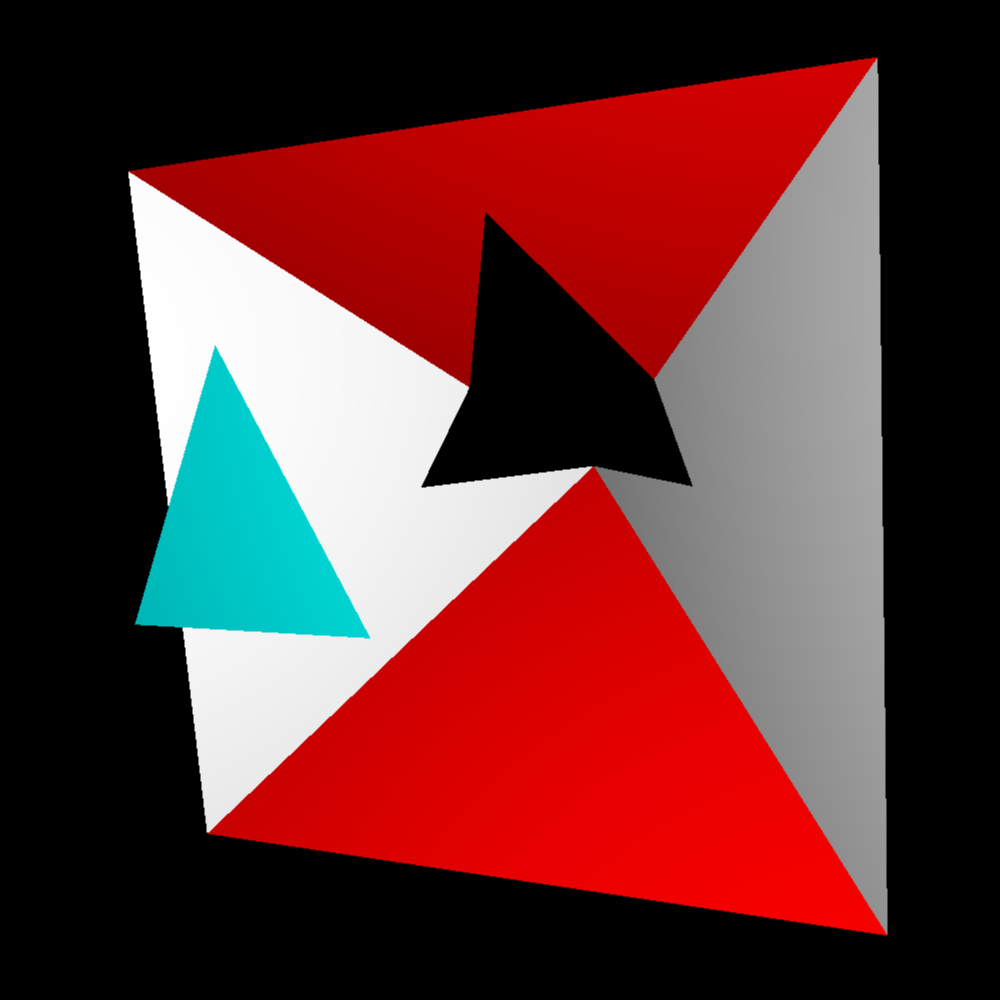
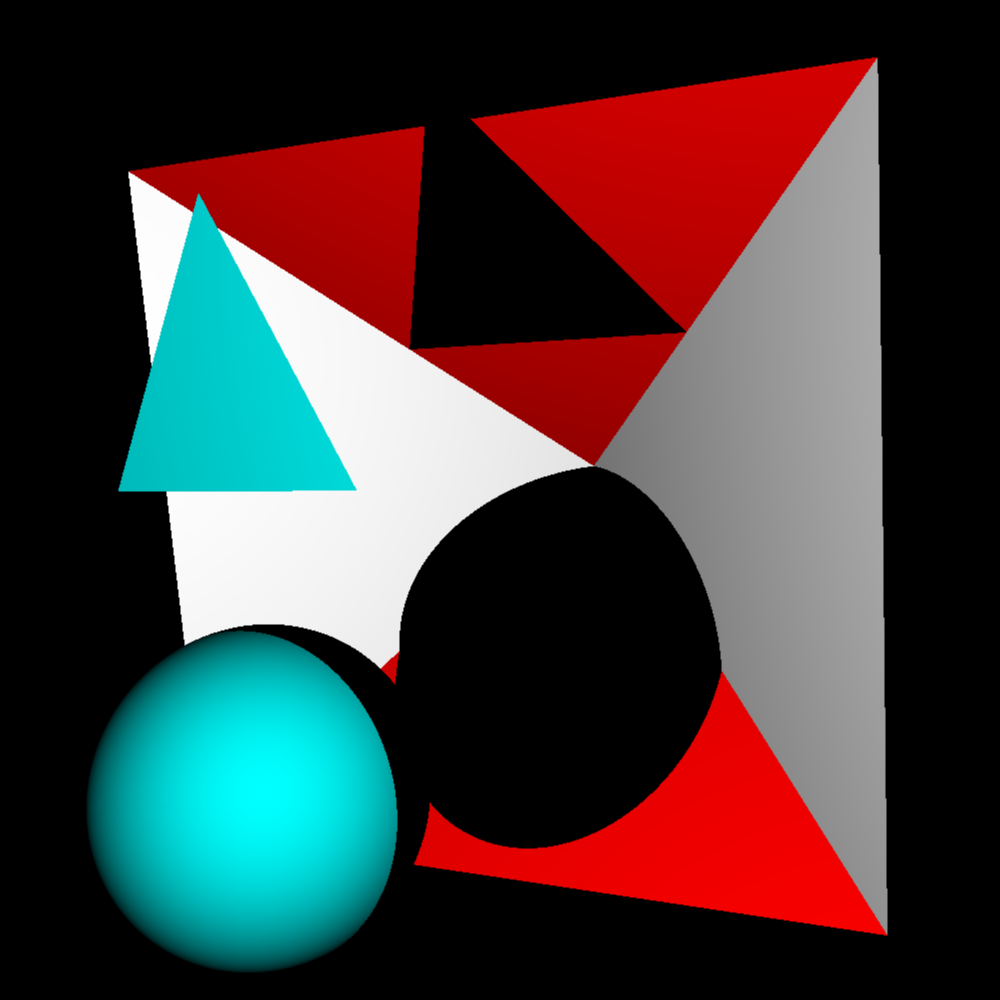
Actually fixed backface culling
Backfaces still cast shadows --- try not to expose backfaces

Changed region(s): [[0.062, 0.124, 0.744, 0.992]]

diff --git a/src/tracer/Raytracer.java b/src/tracer/Raytracer.java
@@ -148,18 +148,18 @@ public class Raytracer {
 		if(!AA) {
 
 			Ray R = cameraCast(x,ytransform,0d,0d);
-			C = getColor(getIntersect(R));		
+			C = getColor(getIntersect(R,true));		
 
 		} else {
 
 			Ray R0 = cameraCast(x,ytransform,0.5d,0.5d);
-			Color C0 = getColor(getIntersect(R0));
+			Color C0 = getColor(getIntersect(R0,true));
 			Ray R1 = cameraCast(x,ytransform,0.5d,-0.5d);
-			Color C1 = getColor(getIntersect(R1));	
+			Color C1 = getColor(getIntersect(R1,true));	
 			Ray R2 = cameraCast(x,ytransform,-0.5d,0.5d);
-			Color C2 = getColor(getIntersect(R2));	
+			Color C2 = getColor(getIntersect(R2,true));	
 			Ray R3 = cameraCast(x,ytransform,-0.5d,-0.50d);
-			Color C3 = getColor(getIntersect(R3));
+			Color C3 = getColor(getIntersect(R3,true));
 
 			C = PatchiColor.average(C0,C1,C2,C3);
 
@@ -169,13 +169,13 @@ public class Raytracer {
 
 	}
 
-	private Intersect getIntersect(Ray R) {
+	private Intersect getIntersect(Ray R, boolean cullBackface) {
 
 		Intersect V = null;
 
 		for(Shape S : shapes) {
 
-			Intersect n = S.intersect(R);
+			Intersect n = S.intersect(R, cullBackface);
 
 			if(n != null) {
 				if(V != null) {
@@ -194,19 +194,19 @@ public class Raytracer {
 
 	}
 
-	private Intersect getIntersect(Ray R, double cull) {
+	private Intersect getIntersect(Ray R, double maxDistance, boolean cullBackface) {
 
-		Intersect I = getIntersect(R);
+		Intersect I = getIntersect(R, cullBackface);
 		if(I == null) return null;
 		double t = I.getT();
-		if(t*t > cull) return null;
+		if(t*t > maxDistance) return null;
 		return I;
 
 	}
 
 	private Color getColor(Intersect I) {
 
-		if(I == null || I.getBackface()) return Color.BLACK;
+		if(I == null) return Color.BLACK;
 		
 		Color C = I.getShape().getColor();
 
@@ -216,7 +216,7 @@ public class Raytracer {
 			Vector lightDir = L.getDirection(shadowCorrection);
 
 			Ray R = new Ray(shadowCorrection, lightDir);
-			Intersect J = getIntersect(R, L.getDistanceSquare(I.getCoords()));
+			Intersect J = getIntersect(R, L.getDistanceSquare(I.getCoords()), false);
 
 			if(J != null) C = Color.BLACK;
 

diff --git a/src/tracer/shapes/Tri.java b/src/tracer/shapes/Tri.java
@@ -31,17 +31,15 @@ public class Tri extends Shape {
 	}
 	
 	@Override
-	public Intersect intersect(Ray R) {
+	public Intersect intersect(Ray R, boolean cullBackface) {
 		
 		Vector dN = R.getDirection().negate();
 		Vector O = R.getOrigin();	
 				
 		Vector AO = new Vector(A,O);
-		
-		boolean backface = false;
-		
+				
 		double modM = dN.dot(AB.cross(AC));
-		if(modM < 0) backface = true;
+		if(modM < 0 && cullBackface) return null;
 		
 		double t = AO.dot(AB.cross(AC)) / modM;
 		if(t < 0) return null;
@@ -52,7 +50,7 @@ public class Tri extends Shape {
 		double v = dN.dot(AB.cross(AO)) / modM;
 		if(v < 0 || u > 1 || u+v > 1) return null;
 		
-		return new Intersect(t, R.getPointFromParameter(t), this, R, backface);
+		return new Intersect(t, R.getPointFromParameter(t), this, R);
 		
 	}
 

diff --git a/src/tracer/Main.java b/src/tracer/Main.java
@@ -29,9 +29,9 @@ public class Main {
 		R.addShape(new Tri(new Vector(0d,0d,-2d), new Vector(-1d,-1d,-1d), new Vector(1d,-1d,-1d), Color.RED));
 		R.addShape(new Tri(new Vector(0d,0d,-2d), new Vector(-1d,1d,-1d), new Vector(-1d,-1d,-1d), Color.WHITE));
 		
-		//R.addShape(new Sphere(0.3d, new Vector(0d,0d,0d), Color.CYAN));
+		R.addShape(new Sphere(0.3d, new Vector(0d,-0.3d,0d), Color.CYAN));
 		
-		R.addShape(new Tri(new Vector(-0.25d,0d,0d), new Vector(0.25d,0d,0d), new Vector(0d,0.5d,0d), Color.CYAN));
+		R.addShape(new Tri(new Vector(-0.25d,0.25d,0d), new Vector(0.25d,0.25d,0d), new Vector(0d,0.75d,0d), Color.CYAN));
 		
 		R.addLight(new tracer.light.PointLight(new Vector(0d,0d,2d), 1d));
 		

diff --git a/src/tracer/Intersect.java b/src/tracer/Intersect.java
@@ -11,16 +11,14 @@ public class Intersect {
 	private final Vector normal;
 	private final Ray inbound; 
 	private final Shape shape;
-	private final boolean backface;
 	
-	public Intersect(double t, Vector coords, Shape S, Ray inbound, boolean backface) {
+	public Intersect(double t, Vector coords, Shape S, Ray inbound) {
 		
 		this.t = t;
 		this.coords=coords;
 		this.inbound = inbound;
 		this.shape = S;
 		normal = S.getNormal(coords);
-		this.backface = backface;
 		
 	}
 
@@ -42,10 +40,6 @@ public class Intersect {
 
 	public Shape getShape() {
 		return shape;
-	}
-
-	public boolean getBackface() {
-		return backface;
 	}
 
 }

diff --git a/src/tracer/shapes/Sphere.java b/src/tracer/shapes/Sphere.java
@@ -20,7 +20,7 @@ public class Sphere extends Shape {
 	}
 
 	@Override
-	public Intersect intersect(Ray R) {
+	public Intersect intersect(Ray R, boolean cullBackface) {
 	
 		Vector dir = R.getDirection();
 		Vector rayor = new Vector(centre,R.getOrigin());
@@ -52,7 +52,7 @@ public class Sphere extends Shape {
 			
 		}
 		
-		return new Intersect(t, R.getPointFromParameter(t), this, R, false);
+		return new Intersect(t, R.getPointFromParameter(t), this, R);
 		
 	}
 

diff --git a/src/tracer/shapes/Shape.java b/src/tracer/shapes/Shape.java
@@ -14,7 +14,7 @@ public abstract class Shape {
 		COLOR = color;
 	}
 	
-	public abstract Intersect intersect(Ray R);
+	public abstract Intersect intersect(Ray R, boolean cullBackface);
 
 	public abstract Vector getNormal(Vector V);
 	
